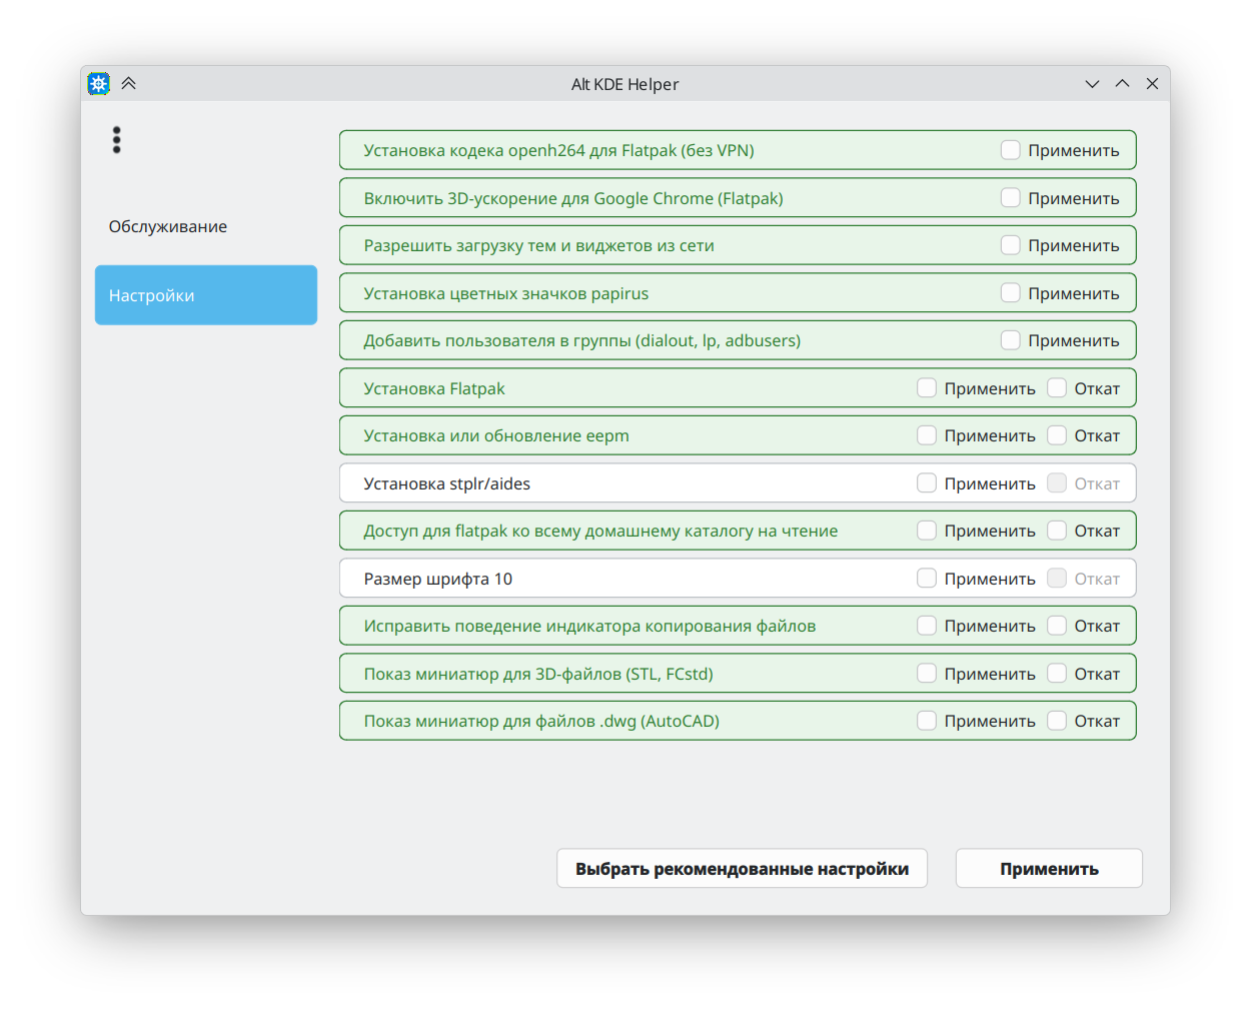
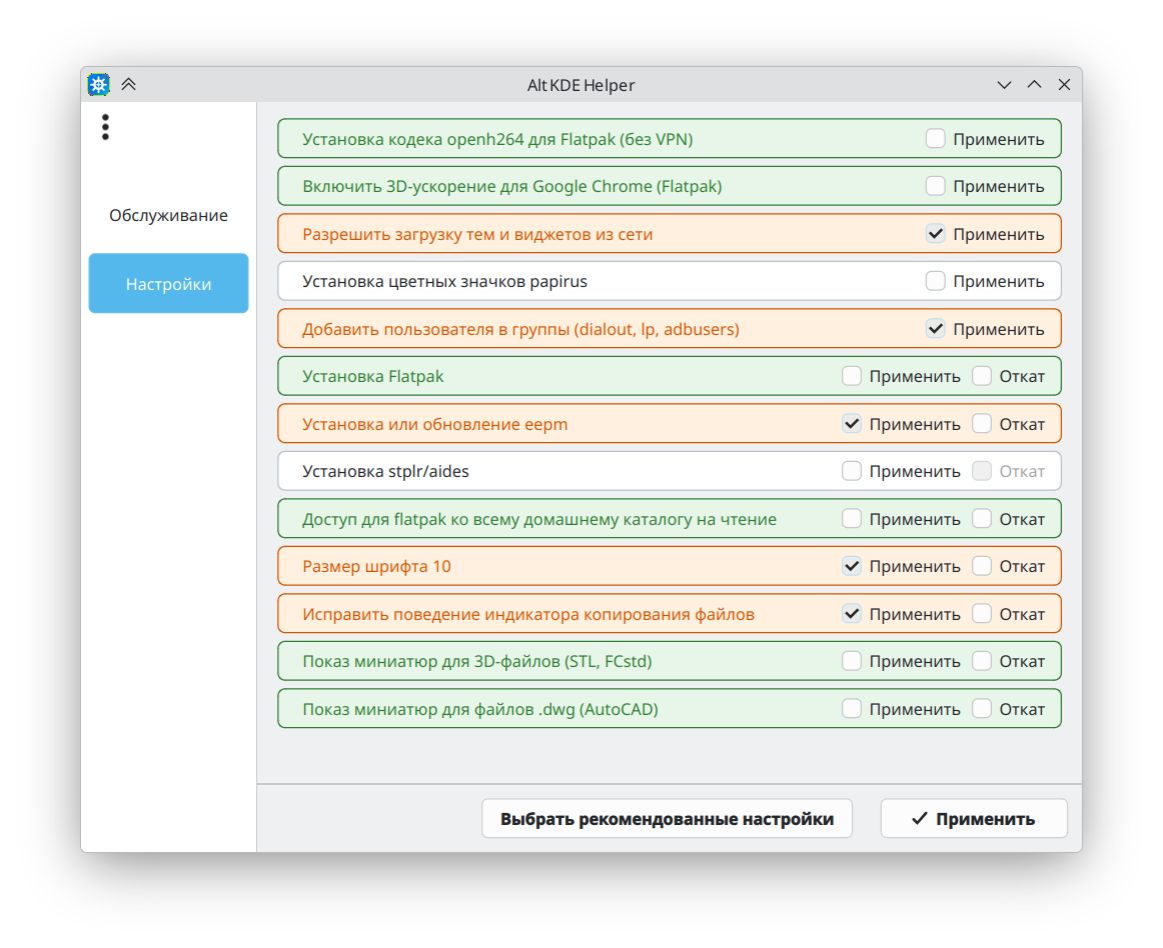
Add files via upload

Changed region(s): [[0.0619, 0.0612, 0.9596, 0.9177], [0.4334, 0.0612, 0.5572, 0.0918], [0.8667, 0.0612, 0.9286, 0.0918]]

diff --git a/usr/share/alt-kde-helper/help.html b/usr/share/alt-kde-helper/help.html
@@ -81,7 +81,6 @@ pre {
 <li>Многие настройки правильно применяются после перезахода в сеанс, а обновления — после перезагрузки компьютера.</li>
 <li>Многие операции требуют ввода пароля в терминале при выполнении. Если появляется надпись <br>
 <code>[sudo] password for ... (ваш логин)</code> — требуется ввести ваш пароль. Символы НЕ отображаются, но вводятся! После чего нажать Enter.</li>
-<li>Внизу справки указаны текущая версия программы и контактная информация для обратной связи.</li>
 </ol>
 
 <h2>Особенности</h2>
@@ -97,7 +96,7 @@ pre {
 <h2>Удаление</h2>
 
 <p><b>Через Discover</b></p>
-<p>Откройте скачанный ранее файл <code>alt-kde-helper-1.1.2-alt1.noarch.rpm</code> в Discover и нажмите значок корзины вверху.</p>
+<p>Откройте скачанный ранее файл <code>alt-kde-helper-1.1.3-alt1.noarch.rpm</code> в Discover и нажмите значок корзины вверху.</p>
 
 <p><b>Через терминал</b></p>
 <p>Выполните команды:</p>
@@ -114,16 +113,10 @@ apt-get remove alt-kde-helper
 <p>В данной программе <code>epm</code> можно установить двумя способами:</p>
 <ul>
 <li>Пункт <b>«Установка eepm»</b> (в категории «Настройки»)</li>
-<li>Пункт <b>«Установка рекомендованных пакетов»</b> (на вкладке «Настройки»)</li>
+<li>Пункт <b>«Установка рекомендованных пакетов»</b> (в категории «Обслуживание»)</li>
 </ul>
 <p>В обоих случаях <code>epm</code> установится автоматически.</p>
 
-<h2>О программе</h2>
-<p><b>Автор:</b> kullibbin</p>
-<p><b>Лицензия:</b> MIT</p>
-<p><b>Версия:</b> 1.1.2</p>
-<p><b>Исходный код:</b> <a href="https://github.com/kullibbin-hub/alt-kde-helper">https://github.com/kullibbin-hub/alt-kde-helper</a></p>
-<p><b>Обратная связь:</b> <a href="mailto:kullibbin@gmail.com">kullibbin@gmail.com</a></p>
 
 </body>
 </html>

diff --git a/usr/share/alt-kde-helper/gui.py b/usr/share/alt-kde-helper/gui.py
@@ -16,7 +16,7 @@ from PyQt6.QtGui import QDesktopServices, QIcon, QCloseEvent, QAction
 
 from config import (
     STYLESHEET, get_scripts_dir, get_state_dir, get_actions_dir,
-    clear_actions_dir, get_help_path
+    clear_actions_dir, get_help_path, get_version
 )
 
 
@@ -493,33 +493,33 @@ class MainWindow(QMainWindow):
         super().__init__()
         self.setWindowTitle("Alt KDE Helper")
         self.setObjectName("alt-kde-helper")
-        self.setMinimumSize(870, 650)
-        self.resize(870, 650)
+        self.setMinimumSize(800, 600)
+        self.resize(800, 600)
 
         clear_actions_dir()
 
         central = QWidget()
         self.setCentralWidget(central)
 
-        main_layout = QVBoxLayout()
-        main_layout.setContentsMargins(10, 10, 10, 10)
-        main_layout.setSpacing(10)
-
-        # Верхняя часть с категориями и меню
-        top_layout = QHBoxLayout()
-        top_layout.setContentsMargins(0, 0, 0, 0)
-        top_layout.setSpacing(0)
+        main_layout = QHBoxLayout()
+        main_layout.setContentsMargins(0, 0, 0, 0)
+        main_layout.setSpacing(0)
 
         # Левая панель с кнопками категорий и меню
         left_panel = QWidget()
-        left_panel.setFixedWidth(180)
+        left_panel.setFixedWidth(140)
+        left_panel.setAutoFillBackground(True)
+        from PyQt6.QtGui import QPalette
+        pal = left_panel.palette()
+        pal.setColor(QPalette.ColorRole.Window, pal.color(QPalette.ColorRole.Base))
+        left_panel.setPalette(pal)
         left_panel_layout = QVBoxLayout()
         left_panel_layout.setContentsMargins(0, 0, 0, 0)
         left_panel_layout.setSpacing(5)
 
         # Кнопка-меню с системной иконкой KDE
         self.menu_button = QPushButton()
-        self.menu_button.setIcon(QIcon.fromTheme("view-more-symbolic"))
+        self.menu_button.setIcon(QIcon.fromTheme("application-menu"))
         self.menu_button.setIconSize(self.menu_button.sizeHint())
         self.menu_button.setFixedSize(40, 40)
         self.menu_button.setToolTip("Меню")
@@ -537,7 +537,6 @@ class MainWindow(QMainWindow):
         self.menu_button.clicked.connect(self.show_menu)
         left_panel_layout.addWidget(self.menu_button, alignment=Qt.AlignmentFlag.AlignLeft)
 
-        # Отступ сверху перед кнопками категорий (20 пикселей)
         left_panel_layout.addSpacing(20)
 
         # Кнопки категорий
@@ -559,6 +558,12 @@ class MainWindow(QMainWindow):
         left_panel_layout.addStretch()
         left_panel.setLayout(left_panel_layout)
 
+        # Правая часть (контент + кнопки внизу)
+        right_widget = QWidget()
+        right_layout = QVBoxLayout()
+        right_layout.setContentsMargins(0, 0, 0, 0)
+        right_layout.setSpacing(0)
+
         # Стек страниц
         self.stack = QWidget()
         self.stack_layout = QVBoxLayout()
@@ -572,13 +577,19 @@ class MainWindow(QMainWindow):
         self.fixes_page.setVisible(False)
 
         self.stack.setLayout(self.stack_layout)
-
-        top_layout.addWidget(left_panel)
-        top_layout.addWidget(self.stack, 1)
-        main_layout.addLayout(top_layout)
+        right_layout.addWidget(self.stack, 1)
 
         # Нижняя панель с кнопками
         bottom_layout = QHBoxLayout()
+
+        # Добавляем разделительную полосу между контентом и нижней панелью
+        line_h = QFrame()
+        line_h.setFrameShape(QFrame.Shape.HLine)
+        line_h.setFrameShadow(QFrame.Shadow.Sunken)
+        line_h.setFixedHeight(1)
+
+        right_layout.addWidget(line_h)
+
         bottom_layout.setContentsMargins(0, 10, 10, 10)
         bottom_layout.setSpacing(10)
 
@@ -593,11 +604,28 @@ class MainWindow(QMainWindow):
 
         self.apply_btn = QPushButton("Применить")
         self.apply_btn.setProperty("class", "BottomButton")
+
+        self.apply_btn = QPushButton(" Применить")
+        self.apply_btn.setIcon(QIcon.fromTheme("dialog-ok"))
+        self.apply_btn.setProperty("class", "BottomButton")
+
         self.apply_btn.setToolTip("После нажатия кнопки откроется терминал.\nВ нём будут выполняться указанные задания.\nДождитесь надписи об окончании, не закрывайте терминал раньше.")
         self.apply_btn.clicked.connect(self.apply_actions)
         bottom_layout.addWidget(self.apply_btn)
 
-        main_layout.addLayout(bottom_layout)
+        right_layout.addLayout(bottom_layout)
+        right_widget.setLayout(right_layout)
+
+        main_layout.addWidget(left_panel)
+        main_layout.addWidget(right_widget, 1)
+
+        # Добавляем разделительную полосу между левой панелью и правой частью
+        line_v = QFrame()
+        line_v.setFrameShape(QFrame.Shape.VLine)
+        line_v.setFrameShadow(QFrame.Shadow.Sunken)
+        line_v.setFixedWidth(1)
+        main_layout.insertWidget(1, line_v)
+
         central.setLayout(main_layout)
 
         self.help_dialog = None
@@ -639,7 +667,12 @@ class MainWindow(QMainWindow):
         help_action = QAction("Справка", self)
         help_action.triggered.connect(self.show_help)
         menu.addAction(help_action)
-
+        about_action = QAction("О программе", self)
+        about_action.triggered.connect(self.show_about)
+        menu.addAction(about_action)
+        check_update_action = QAction("Проверить обновление", self)
+        check_update_action.triggered.connect(self.check_for_updates)
+        menu.addAction(check_update_action)
         menu.exec(self.menu_button.mapToGlobal(QPoint(0, self.menu_button.height())))
 
     def closeEvent(self, event: QCloseEvent):
@@ -684,7 +717,6 @@ class MainWindow(QMainWindow):
 
     def toggle_recommended(self):
         cards = self.get_all_cards()
-        mirror_card = self.get_mirror_card()
 
         if not self.recommended_state:
             for card in cards:
@@ -880,6 +912,59 @@ class MainWindow(QMainWindow):
         self.help_dialog.raise_()
         self.help_dialog.activateWindow()
 
+    def show_help(self):
+        if self.help_dialog is None:
+            self.help_dialog = HelpDialog(self)
+        self.help_dialog.show()
+        self.help_dialog.raise_()
+        self.help_dialog.activateWindow()
+
+    def show_about(self):
+        QMessageBox.about(
+            self,
+            "О программе Alt KDE Helper",
+            f"<b>Alt KDE Helper</b><br><br>"
+            f"Версия: {get_version()}<br><br>"
+            "Программа для настройки и обслуживания<br>"
+            "ALT Linux 11 с рабочим столом KDE6<br><br>"
+            "Автор: kullibbin<br>"
+            "<a href='mailto:kullibbin@gmail.com'>kullibbin@gmail.com</a><br><br>"
+            "<a href='https://github.com/kullibbin-hub/alt-kde-helper'>GitHub</a>"
+        )
+
+    def check_for_updates(self):
+        import urllib.request
+        import json
+
+        current_version = get_version()
+
+        try:
+            req = urllib.request.Request(
+                "https://api.github.com/repos/kullibbin-hub/alt-kde-helper/releases/latest",
+                headers={"User-Agent": "Alt KDE Helper"}
+            )
+            with urllib.request.urlopen(req, timeout=10) as response:
+                data = json.loads(response.read().decode())
+                latest_version = data.get("tag_name", "").lstrip("v")
+                release_url = data.get("html_url", "")
+
+            if latest_version and latest_version > current_version:
+                msg = QMessageBox(self)
+                msg.setWindowTitle("Доступно обновление")
+                msg.setText(f"Доступна новая версия: {latest_version}\n\nВаша версия: {current_version}\n\nПерейти на страницу загрузки?")
+                msg.setInformativeText("На странице GitHub вы сможете посмотреть изменения и скачать новый RPM.")
+                msg.setStyleSheet("QLabel{min-width: 450px;}")
+                msg.setStandardButtons(QMessageBox.StandardButton.Yes | QMessageBox.StandardButton.No)
+                msg.setDefaultButton(QMessageBox.StandardButton.Yes)
+                if msg.exec() == QMessageBox.StandardButton.Yes:
+                    QDesktopServices.openUrl(QUrl(release_url))
+            elif latest_version:
+                QMessageBox.information(self, "Обновлений нет", f"У вас последняя версия {current_version}")
+            else:
+                QMessageBox.warning(self, "Ошибка", "Не удалось определить версию на GitHub")
+        except Exception as e:
+            QMessageBox.warning(self, "Ошибка", f"Не удалось проверить обновления:\n{str(e)}")
+
     def create_fixes_page(self):
         cards = []
 
@@ -908,7 +993,7 @@ class MainWindow(QMainWindow):
 
         cards.append(SimpleActionCard(
             "Установка цветных значков papirus",
-            "Будут установлены значки papirus с разными цветами папок.\nУстановка может занимать несколько минут,\nиз-за большого количества маленьких файлов, наберитесь терпения.",
+            "Будут установлены значки papirus-remix-icon-theme с разными цветами папок.\nУстановка может занимать несколько минут, из-за большого количества маленьких файлов,\nнаберитесь терпения.",
             "18_install_papirus_icons_action.sh"
         ))
 

diff --git a/usr/share/alt-kde-helper/config.py b/usr/share/alt-kde-helper/config.py
@@ -64,8 +64,10 @@ QPushButton[class="BottomButton"] {
 
 /* Кнопки вкладок */
 QPushButton[class="TabButton"] {
-    text-align: left;
+    text-align: center;
     padding: 8px 12px;
+    margin-left: 5px;
+    margin-right: 5px;
     font-weight: normal;
     border: none;
     border-radius: 4px;
@@ -76,8 +78,10 @@ QPushButton[class="TabButton"]:hover {
     background-color: palette(alternate-base);
 }
 QPushButton[class="TabButtonActive"] {
-    text-align: left;
+    text-align: center;
     padding: 8px 12px;
+    margin-left: 5px;
+    margin-right: 5px;
     background-color: palette(highlight);
     color: palette(highlighted-text);
 }
@@ -109,3 +113,19 @@ def clear_actions_dir():
 
 def get_help_path():
     return os.path.join(os.path.dirname(os.path.abspath(__file__)), 'help.html')
+
+def get_version():
+    # Сначала пробуем найти в системе (установленный пакет)
+    version_file = '/usr/share/doc/alt-kde-helper/version.txt'
+    if os.path.exists(version_file):
+        with open(version_file, 'r', encoding='utf-8') as f:
+            return f.read().strip()
+
+    # Если не нашли, пробуем в корне проекта (для разработки)
+    base_dir = os.path.dirname(os.path.dirname(os.path.dirname(os.path.abspath(__file__))))
+    version_file = os.path.join(base_dir, 'version.txt')
+    try:
+        with open(version_file, 'r', encoding='utf-8') as f:
+            return f.read().strip()
+    except:
+        return "unknown"

diff --git a/README.md b/README.md
@@ -34,7 +34,7 @@
 
 ### Самый простой способ — через RPM-пакет
 
-Скачайте файл alt-kde-helper-1.1.2-alt1.noarch.rpm со страницы релизов:
+Скачайте файл alt-kde-helper-1.1.3-alt1.noarch.rpm со страницы релизов:
 https://github.com/kullibbin-hub/alt-kde-helper/releases/
 
 **Установка через Discover**
@@ -54,7 +54,7 @@ https://github.com/kullibbin-hub/alt-kde-helper/releases/
 
 3. Введите пароль root, затем выполните:
 
-apt-get install /home/$(logname)/alt-kde-helper-1.1.2-alt1.noarch.rpm
+apt-get install /home/$(logname)/alt-kde-helper-1.1.3-alt1.noarch.rpm
 
 ### Установка из исходников
 
@@ -97,7 +97,7 @@ apt-get install /home/$(logname)/alt-kde-helper-1.1.2-alt1.noarch.rpm
 
 В данной программе `epm` можно установить двумя способами:
 - Пункт **«Установка eepm»** (в категории «Настройки»)
-- Пункт **«Установка рекомендованных пакетов»** (на вкладке «Настройки»)
+- Пункт **«Установка рекомендованных пакетов»** (в категории «Обслуживание»)
 
 В обоих случаях `epm` установится автоматически.
 
@@ -105,6 +105,5 @@ apt-get install /home/$(logname)/alt-kde-helper-1.1.2-alt1.noarch.rpm
 
 - **Автор:** kullibbin
 - **Лицензия:** MIT
-- **Версия:** 1.1.2
 - **Исходный код:** [https://github.com/kullibbin-hub/alt-kde-helper](https://github.com/kullibbin-hub/alt-kde-helper)
 - **Обратная связь:** kullibbin@gmail.com
